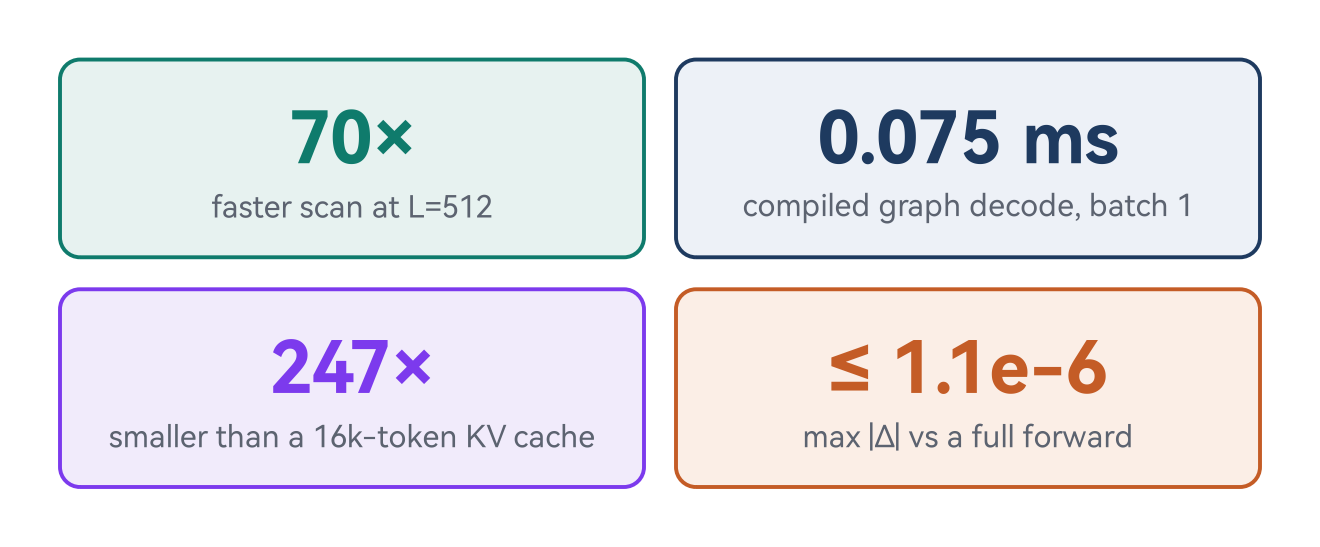
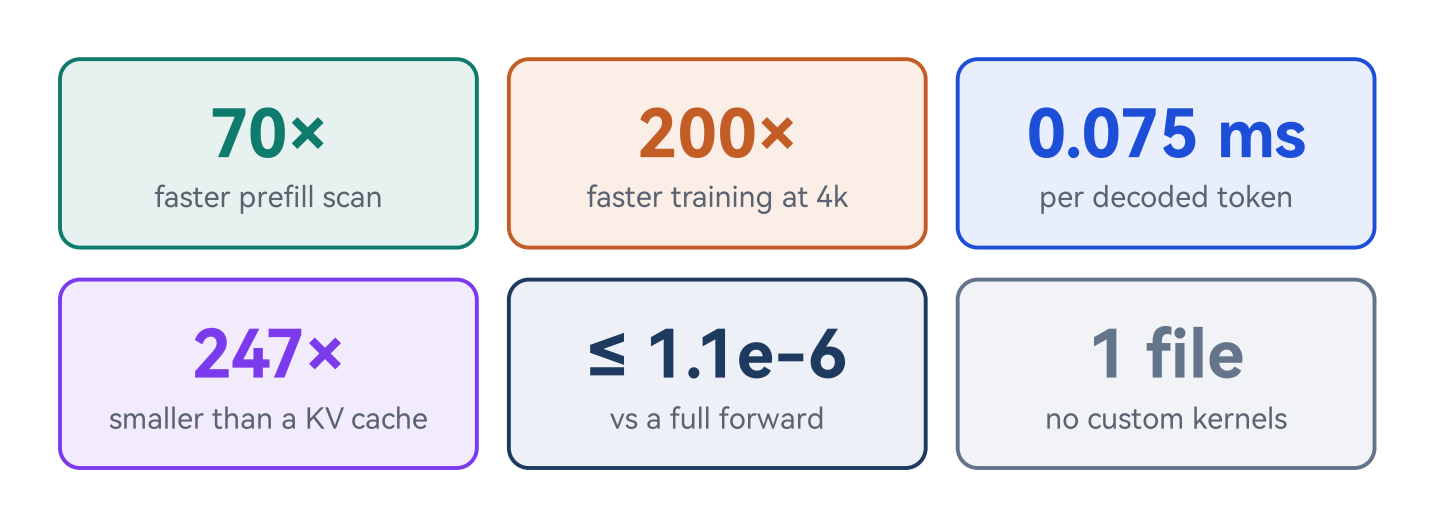
Add training speed and single-file cards to the headline
Six numbers in 3x2 instead of four in 2x2. Two of the six dimensions the
README argues for were missing from the summary: the backward pass, and
the fact that all of it is one dependency-free file.

Card width is now measured from the longest rendered line rather than
divided out of a fixed canvas, so a reworded caption cannot overflow.

Changed region(s): [[0.0311, 0.0909, 0.9629, 0.4848], [0.0311, 0.5152, 0.9629, 0.9091], [0.4038, 0.6061, 0.5902, 0.7273]]

diff --git a/scripts/stats_figure.py b/scripts/stats_figure.py
@@ -1,12 +1,15 @@
-"""Draw assets/headline.png — the four numbers at the top of the README.
+"""Draw assets/headline.png — the six numbers at the top of the README.
 
-Every figure is a reading of one of the plots further down the README, kept
-here as literals so this script stays a drawing step:
+Each one is a reading of a plot further down the README, kept here as a literal
+so this script stays a drawing step. The first row is speed, the second is what
+the speed did not cost:
 
-    70x       assets/scan.png            speedup at L=512, R=1
+    70x       assets/scan.png            chunked vs recurrence at L=512, R=1
+    200x      assets/long_context.png    forward + backward at L=4096
     0.075 ms  assets/compile.png         compiled graph decode, batch 1
     247x      assets/decode_scaling.png  state vs a 16k-token KV cache
     1.1e-6    assets/alignment.png       step() against one full forward
+    1 file    mamba3.py                  no custom kernels, no build step
 
     python scripts/stats_figure.py
 """
@@ -17,43 +20,74 @@ from pathlib import Path
 
 import matplotlib.pyplot as plt
 
-from figstyle import CORAL, MUTED, NAVY, PLUM, TEAL, card, lh, use_style
+from figstyle import (BLUE, CORAL, MUTED, NAVY, PLUM, SLATE, TEAL, card, lh,
+                      use_style)
 
 ASSETS = Path(__file__).resolve().parent.parent / "assets"
 ASSETS.mkdir(exist_ok=True)
 
-# Each caption reads on from its number, so all four stay lowercase. Exponents
-# are written 1e-6: the figure font has no superscript minus.
+# Each caption reads on from its number, so all of them stay lowercase, and all
+# of them stay short: six cards across a phone screen leaves little room. The
+# exponent is written 1e-6 because the figure font has no superscript minus.
 CARDS = [
-    (TEAL, "70\u00d7", "faster scan at L=512"),
-    (NAVY, "0.075 ms", "compiled graph decode, batch 1"),
-    (PLUM, "247\u00d7", "smaller than a 16k-token KV cache"),
-    (CORAL, "\u2264 1.1e-6", "max |\u0394| vs a full forward"),
+    (TEAL, "70\u00d7", "faster prefill scan"),
+    (CORAL, "200\u00d7", "faster training at 4k"),
+    (BLUE, "0.075 ms", "per decoded token"),
+    (PLUM, "247\u00d7", "smaller than a KV cache"),
+    (NAVY, "\u2264 1.1e-6", "vs a full forward"),
+    (SLATE, "1 file", "no custom kernels"),
 ]
 
-AX_W = 6.0
+COLS = 3
 GAP = 0.16
 RADIUS = 0.10
-NUM_SIZE, CAP_SIZE = 26.0, 11.0
+NUM_SIZE, CAP_SIZE = 24.0, 10.5
 PAD = 0.30
+SIDE = 0.26     # gap between the longest line and the card edge
 BLEED = 0.04    # the outer cards would otherwise be clipped to half a stroke
+
+
+def _line_width(fig, text: str, size: float, weight: str = "normal") -> float:
+    """Rendered width of one line, in inches."""
+    handle = fig.text(0, 0, text, fontsize=size, fontweight=weight)
+    width = handle.get_window_extent(fig.canvas.get_renderer()).width / fig.dpi
+    handle.remove()
+    return width
+
+
+def _card_width() -> float:
+    """Width that fits every card's longest line, measured rather than guessed.
+
+    All six cards share it, so the widest string sets the figure width. Wording
+    is what changes here most often, and a card sized by hand goes on looking
+    right until the day a caption grows past it and the text runs off the edge.
+    """
+    probe = plt.figure()
+    probe.canvas.draw()
+    widest = max(max(_line_width(probe, number, NUM_SIZE, "bold"),
+                     _line_width(probe, caption, CAP_SIZE))
+                 for _, number, caption in CARDS)
+    plt.close(probe)
+    return widest + 2 * SIDE
 
 
 def main() -> None:
     use_style()
-    card_w = (AX_W - GAP) / 2
+    card_w = _card_width()
     card_h = lh(NUM_SIZE) + lh(CAP_SIZE) + PAD
-    ax_h = 2 * card_h + GAP
+    rows = -(-len(CARDS) // COLS)
+    ax_w = COLS * card_w + (COLS - 1) * GAP
+    ax_h = rows * card_h + (rows - 1) * GAP
 
-    fig, ax = plt.subplots(figsize=(AX_W + 2 * BLEED, ax_h + 2 * BLEED))
-    ax.set_xlim(-BLEED, AX_W + BLEED)
+    fig, ax = plt.subplots(figsize=(ax_w + 2 * BLEED, ax_h + 2 * BLEED))
+    ax.set_xlim(-BLEED, ax_w + BLEED)
     ax.set_ylim(-BLEED, ax_h + BLEED)
     ax.axis("off")
     fig.subplots_adjust(left=0, right=1, top=1, bottom=0)
 
     for i, (color, number, caption) in enumerate(CARDS):
-        x0 = (i % 2) * (card_w + GAP)
-        y1 = ax_h - (i // 2) * (card_h + GAP)
+        x0 = (i % COLS) * (card_w + GAP)
+        y1 = ax_h - (i // COLS) * (card_h + GAP)
         card(ax, x0, y1 - card_h, x0 + card_w, y1, color, RADIUS)
         cx = x0 + card_w / 2
         y = y1 - PAD / 2 - lh(NUM_SIZE) / 2
@@ -65,7 +99,7 @@ def main() -> None:
 
     fig.savefig(ASSETS / "headline.png")
     plt.close(fig)
-    print(f"wrote headline.png  ({AX_W:.2f} x {ax_h:.2f} in)")
+    print(f"wrote headline.png  ({ax_w:.2f} x {ax_h:.2f} in)")
 
 
 if __name__ == "__main__":

diff --git a/scripts/figstyle.py b/scripts/figstyle.py
@@ -41,6 +41,7 @@ FILL = {
     CORAL: "#FBEEE6",
     PLUM: "#F1EBFB",
     BLUE: "#E9EEFC",
+    SLATE: "#F1F3F6",
 }
 
 # One scale for every figure. Raising a number here raises it everywhere, which

diff --git a/README.md b/README.md
@@ -15,7 +15,7 @@
 </p>
 
 <p align="center">
-  <img src="assets/architecture.png" width="560" alt="The data path of one Mamba-3 layer">
+  <img src="assets/architecture.png" width="600" alt="The data path of one Mamba-3 layer">
 </p>
 
 Copy [`mamba3.py`](mamba3.py) into your project, `pip install torch`, and you have Mamba-3 on whatever device PyTorch is already using: SISO and MIMO, chunked prefill, single-step decode, graph replay that composes with `torch.compile`, gradients included.
@@ -27,7 +27,7 @@ Copy [`mamba3.py`](mamba3.py) into your project, `pip install torch`, and you ha
 **Not a lookalike.** What this file replaces is the official *kernel backend*, not the interface — which is why [the official usage snippet](#install) runs on it with only its import line changed.
 
 <p align="center">
-  <img src="assets/headline.png" width="560" alt="70x faster scan, 0.075 ms compiled decode, 247x smaller state, 1.1e-6 max error">
+  <img src="assets/headline.png" width="600" alt="70x faster prefill scan, 200x faster training at 4k, 0.075 ms per decoded token, 247x smaller than a KV cache, 1.1e-6 max error vs a full forward, one file with no custom kernels">
 </p>
 
 ---
